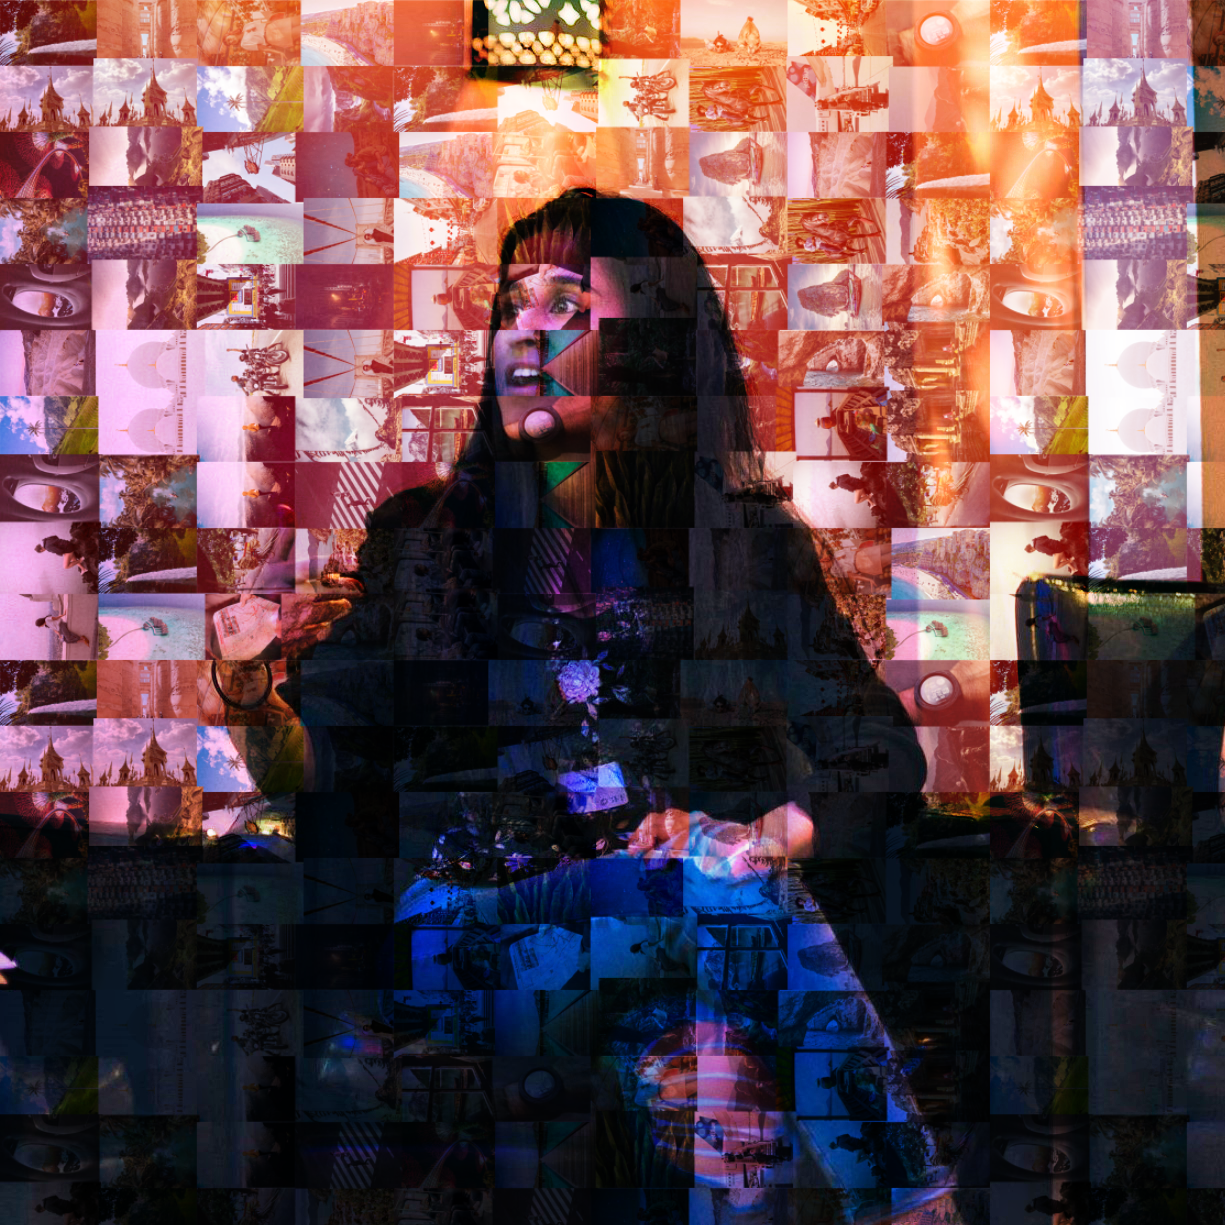
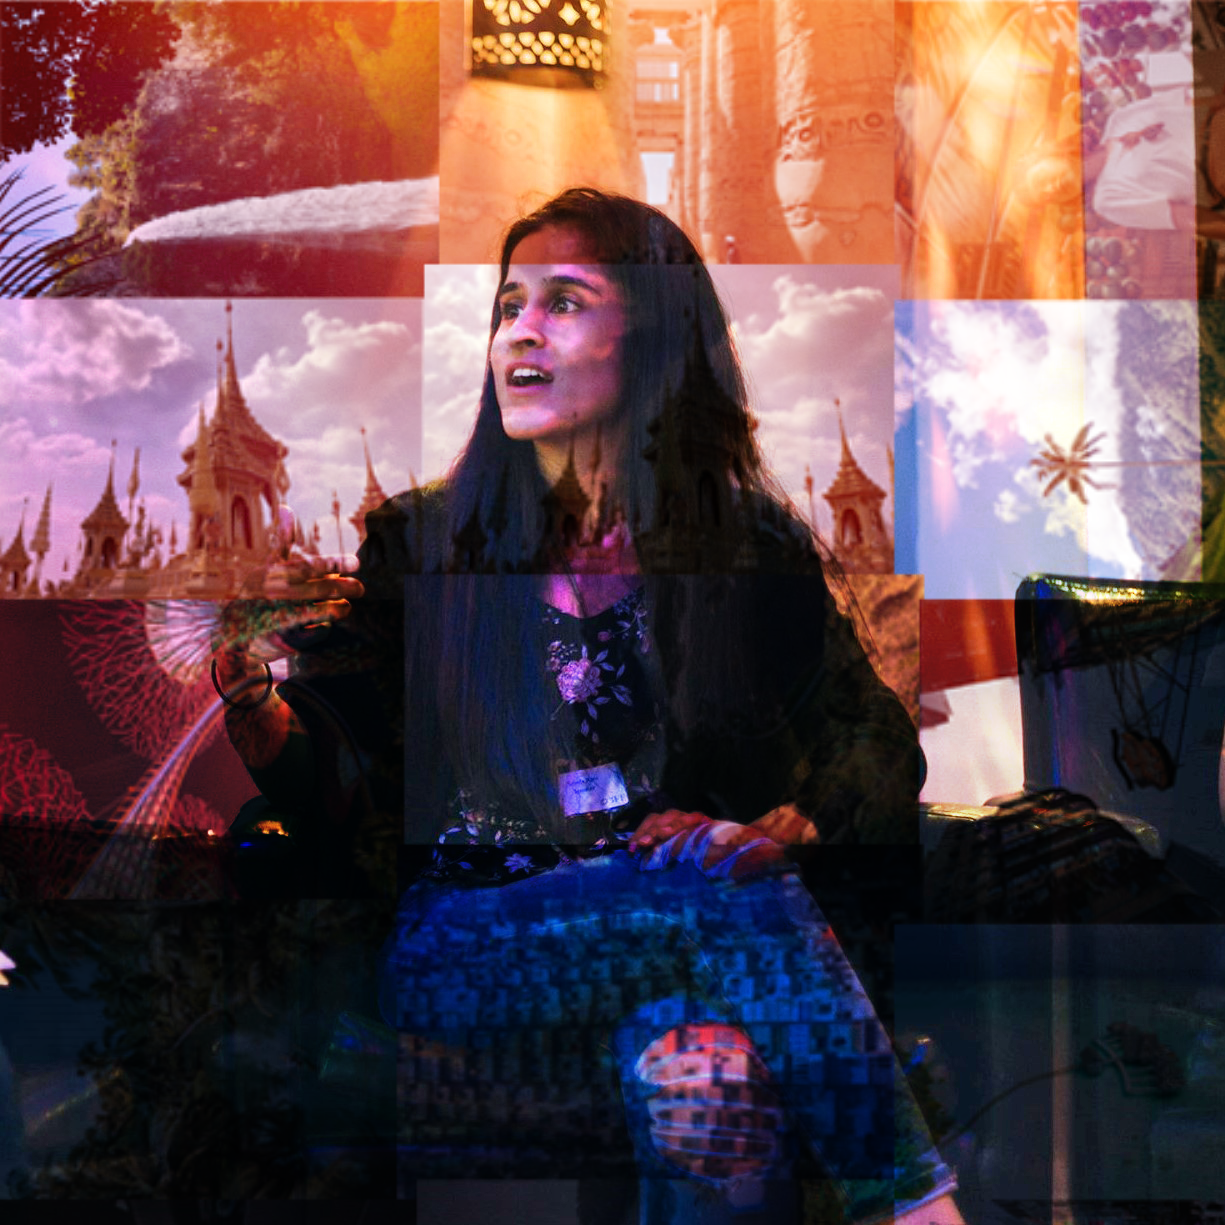
blog, contact, footer

diff --git a/src/components/Footer/index.js b/src/components/Footer/index.js
@@ -1,25 +1,16 @@
 import React, { Component } from 'react'
 import CSS from "../Footer/Footer.module.css"
-import { SocialIcon } from 'react-social-icons';
+
 
 
 export default class Footer extends Component {
   render() {
     return (
         <div className={CSS.mainCoverContainer}>
-            
-            
-            <div className={CSS.socialMedia}>
-               
-                <ul className={CSS.socialIcons}>
-                    <li> <SocialIcon network="pinterest"  bgColor="#111111" fgColor="#ffffff" style={{ height: 50, width: 50 }} /></li>
-                    <li><SocialIcon url="https://medium.com/@sahelarani1" bgColor="#111111" fgColor="#ffffff"/></li>
-                    <li><SocialIcon url="https://www.linkedin.com/in/sahelarani/" bgColor="#111111" fgColor="#ffffff"/></li>
-                    <li><SocialIcon url="https://github.com/SahelaR" fgColor="#ffffff" bgColor="#111111"/></li>
-                </ul>
-                </div>
+
 
             <div className={CSS.copyright}>
+                <br />
                 <p className={CSS.footerText}>Made in React.js</p>
                 <br />
                 <p className={CSS.footerText}>By Sahela Rani © 2019 - 2022 . All Rights Reserved</p>

diff --git a/src/components/LandingSection/index.js b/src/components/LandingSection/index.js
@@ -1,6 +1,6 @@
 import React from 'react'
 import CSS from "../LandingSection/LandingSection.module.css"
-import Portrait from "/Users/sahel/Documents/portfolioWebsite/src/Assets/Images/portrait2.png"
+import Portrait from "/Users/sahel/Documents/portfolioWebsite/src/Assets/Images/portrait.png"
 
 
 

diff --git a/src/components/Footer/Footer.module.css b/src/components/Footer/Footer.module.css
@@ -8,9 +8,11 @@
      color: rgb(169, 169, 169);
      z-index: 1;
      font-size: 15px;
-     text-align: center;
-     padding-bottom: 2px
      
+}
+
+.copyright {
+     text-align: center;
 }
 
 .socialIcons {

diff --git a/src/components/ContactMe/ContactMe.module.css b/src/components/ContactMe/ContactMe.module.css
@@ -1,5 +1,5 @@
 .mainContainer {
-  min-height: 65vh;
+  min-height: 40vh;
   background-color: #331832;
   display: flex;
   justify-content: center;
